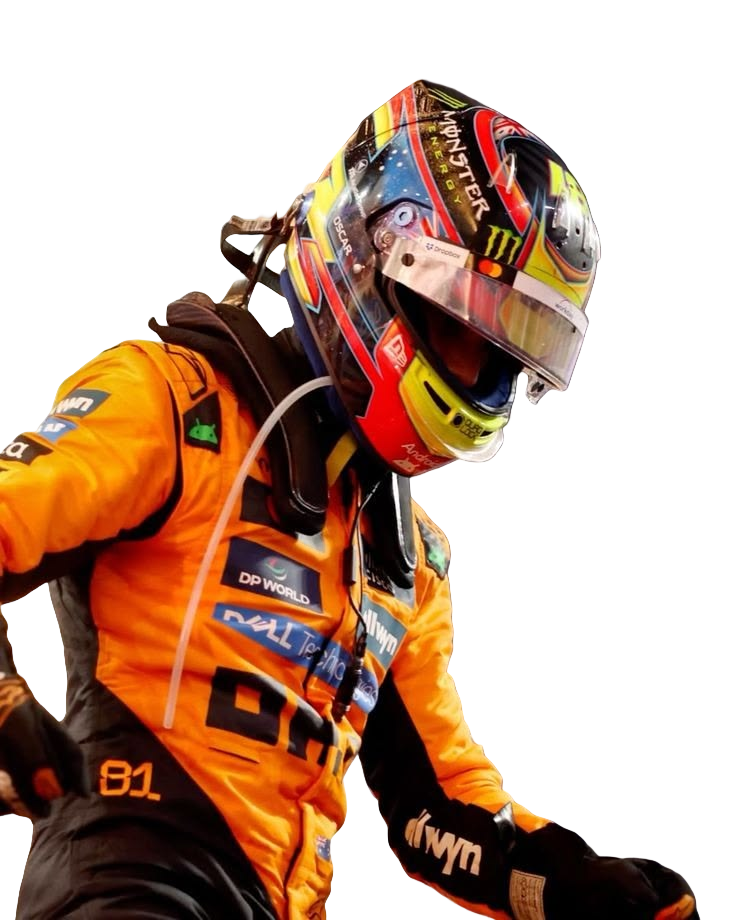
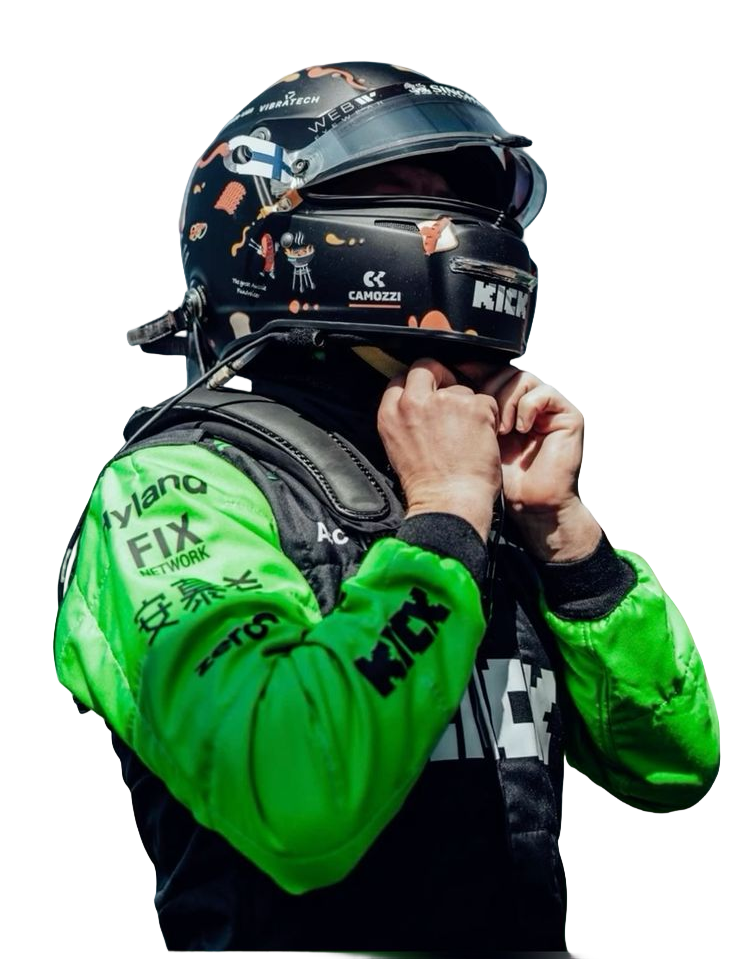
Add files via upload

diff --git a/drivers.html b/drivers.html
@@ -296,6 +296,29 @@
 
 <main class="drivers-grid">
   
+  <!-- Roman: McLaren -->
+  <div class="driver-card" style="--team-border: #01C00E; --leak-rgb: 0, 231, 1; --num-rgb: 255, 255, 255;">
+    <div class="driver-bg-number">5</div>
+    <div class="car-section">
+      <img src="images/drivers/roman.png" alt="" class="driver-car-image" onerror="this.style.display='none';" />
+    </div>
+    <div class="content-section">
+      <div class="card-top">
+        <div class="driver-num-plate">#05</div>
+        <div class="team-badge-logo"><img src="teams/kick.png" alt="McLaren" onerror="this.style.display='none'"/></div>
+      </div>
+      <div class="card-stats-row">
+        <div class="stat-box"><span class="stat-label">Pos</span><span class="stat-val">2nd</span></div>
+        <div class="stat-box"><span class="stat-label">Wins</span><span class="stat-val">0</span></div>
+        <div class="stat-box"><span class="stat-label">Podiums</span><span class="stat-val">2</span></div>
+      </div>
+      <div class="card-bottom">
+        <div class="driver-display-name">Roman</div>
+        <div class="driver-display-team">McLaren Mastercard</div>
+      </div>
+    </div>
+  </div>
+
   <!-- Ash: Mercedes -->
   <div class="driver-card" style="--team-border: #00a19c; --leak-rgb: 0, 161, 156; --num-rgb: 255, 255, 255;">
     <div class="driver-bg-number">72</div>
@@ -318,26 +341,26 @@
       </div>
     </div>
   </div>
-
-  <!-- Roman: McLaren -->
-  <div class="driver-card" style="--team-border: #ff8700; --leak-rgb: 255, 135, 0; --num-rgb: 255, 255, 255;">
-    <div class="driver-bg-number">5</div>
+  
+  <!-- Michael: Haas -->
+  <div class="driver-card" style="--team-border: #ffffff; --leak-rgb: 255, 255, 255; --num-rgb: 255, 255, 255;">
+    <div class="driver-bg-number">42</div>
     <div class="car-section">
-      <img src="images/drivers/roman.png" alt="" class="driver-car-image" onerror="this.style.display='none';" />
+      <img src="images/drivers/michael.png" alt="" class="driver-car-image" onerror="this.style.display='none';" />
     </div>
     <div class="content-section">
       <div class="card-top">
-        <div class="driver-num-plate">#05</div>
-        <div class="team-badge-logo"><img src="teams/mclaren.png" alt="McLaren" onerror="this.style.display='none'"/></div>
+        <div class="driver-num-plate">#42</div>
+        <div class="team-badge-logo"><img src="teams/haas.png" alt="Haas" onerror="this.style.display='none'"/></div>
       </div>
       <div class="card-stats-row">
-        <div class="stat-box"><span class="stat-label">Pos</span><span class="stat-val">2nd</span></div>
+        <div class="stat-box"><span class="stat-label">Pos</span><span class="stat-val">7th</span></div>
         <div class="stat-box"><span class="stat-label">Wins</span><span class="stat-val">0</span></div>
-        <div class="stat-box"><span class="stat-label">Podiums</span><span class="stat-val">2</span></div>
+        <div class="stat-box"><span class="stat-label">Podiums</span><span class="stat-val">0</span></div>
       </div>
       <div class="card-bottom">
-        <div class="driver-display-name">Roman</div>
-        <div class="driver-display-team">McLaren Mastercard</div>
+        <div class="driver-display-name">Michael</div>
+        <div class="driver-display-team">MoneyGram Haas F1 Team</div>
       </div>
     </div>
   </div>
@@ -434,28 +457,6 @@
     </div>
   </div>
 
-  <!-- Michael: Haas -->
-  <div class="driver-card" style="--team-border: #ffffff; --leak-rgb: 255, 255, 255; --num-rgb: 255, 255, 255;">
-    <div class="driver-bg-number">42</div>
-    <div class="car-section">
-      <img src="images/drivers/michael.png" alt="" class="driver-car-image" onerror="this.style.display='none';" />
-    </div>
-    <div class="content-section">
-      <div class="card-top">
-        <div class="driver-num-plate">#42</div>
-        <div class="team-badge-logo"><img src="teams/haas.png" alt="Haas" onerror="this.style.display='none'"/></div>
-      </div>
-      <div class="card-stats-row">
-        <div class="stat-box"><span class="stat-label">Pos</span><span class="stat-val">7th</span></div>
-        <div class="stat-box"><span class="stat-label">Wins</span><span class="stat-val">0</span></div>
-        <div class="stat-box"><span class="stat-label">Podiums</span><span class="stat-val">0</span></div>
-      </div>
-      <div class="card-bottom">
-        <div class="driver-display-name">Michael</div>
-        <div class="driver-display-team">MoneyGram Haas F1 Team</div>
-      </div>
-    </div>
-  </div>
 
 </main>
 

diff --git a/standings.html b/standings.html
@@ -325,14 +325,14 @@
     <div class="mini-podium">
       
       <!-- P2: Roman -->
-      <div class="mini-podium-card p2" style="--p-color: #ff8700;">
+      <div class="mini-podium-card p2" style="--p-color: #00e701;">
         <div class="mp-photo-wrapper">
           <img src="images/drivers/roman.png" alt="" onerror="this.style.opacity='0';" />
         </div>
         <div class="mp-content">
           <div class="mp-rank">2</div>
           <div class="mp-name">Roman</div>
-          <div class="mp-team">McLaren</div>
+          <div class="mp-team">Kick Sauber</div>
         </div>
       </div>
       
@@ -394,11 +394,11 @@
             <td class="col-num">5</td>
             <td>
               <div class="driver-cell">
-                <div class="table-team-logo"><img src="teams/mclaren.png" alt="" onerror="this.style.display='none'"/></div>
+                <div class="table-team-logo"><img src="teams/kick.png" alt="" onerror="this.style.display='none'"/></div>
                 <div class="driver-name">Roman</div>
               </div>
             </td>
-            <td><span class="team-tag">McLaren</span></td>
+            <td><span class="team-tag">Kick Sauber</span></td>
             <td class="col-stat">0</td>
             <td class="col-pts">36</td>
           </tr>
@@ -492,15 +492,15 @@
       </div>
 
       <!-- McLaren -->
-      <div class="constructor-showcase-card" style="--team-color: #ff8700; --team-rgb: 255, 135, 0;">
+      <div class="constructor-showcase-card" style="--team-color: #00e701; --team-rgb: 0, 231, 1;">
         <div class="c-info-side">
           <div class="c-rank-badge">2</div>
           <div class="c-meta">
-            <div class="c-title">McLaren</div>
+            <div class="c-title">Stake Kick Sauber</div>
             <div class="c-drivers">Roman</div>
           </div>
         </div>
-        <img src="images/cars/mclaren.png" alt="" class="c-car-graphic" onerror="this.style.display='none';" />
+        <img src="images/cars/stakekick.png" alt="" class="c-car-graphic" onerror="this.style.display='none';" />
         <div class="c-pts-side">36</div>
       </div>
 
@@ -522,7 +522,7 @@
         <div class="c-info-side">
           <div class="c-rank-badge">4</div>
           <div class="c-meta">
-            <div class="c-title">Visa Cash App RB</div>
+            <div class="c-title">Visa Cash App Racing Bulls</div>
             <div class="c-drivers">James</div>
           </div>
         </div>

diff --git a/index.html b/index.html
@@ -102,8 +102,7 @@
   <div class="hero-bg"></div>
   <div class="hero-content">
     <div class="hero-logo-wrap"><img src="images/New%20Project.png" alt="KLR Logo" /></div>
-    <div class="hero-eyebrow">King League Racing</div>
-    <h1>Season <em>1</em> Results</h1>
+    <h1>Season <em>1</em></h1>
     <div class="hero-sub">Race Calendar &amp; Podiums</div>
   </div>
 </div>